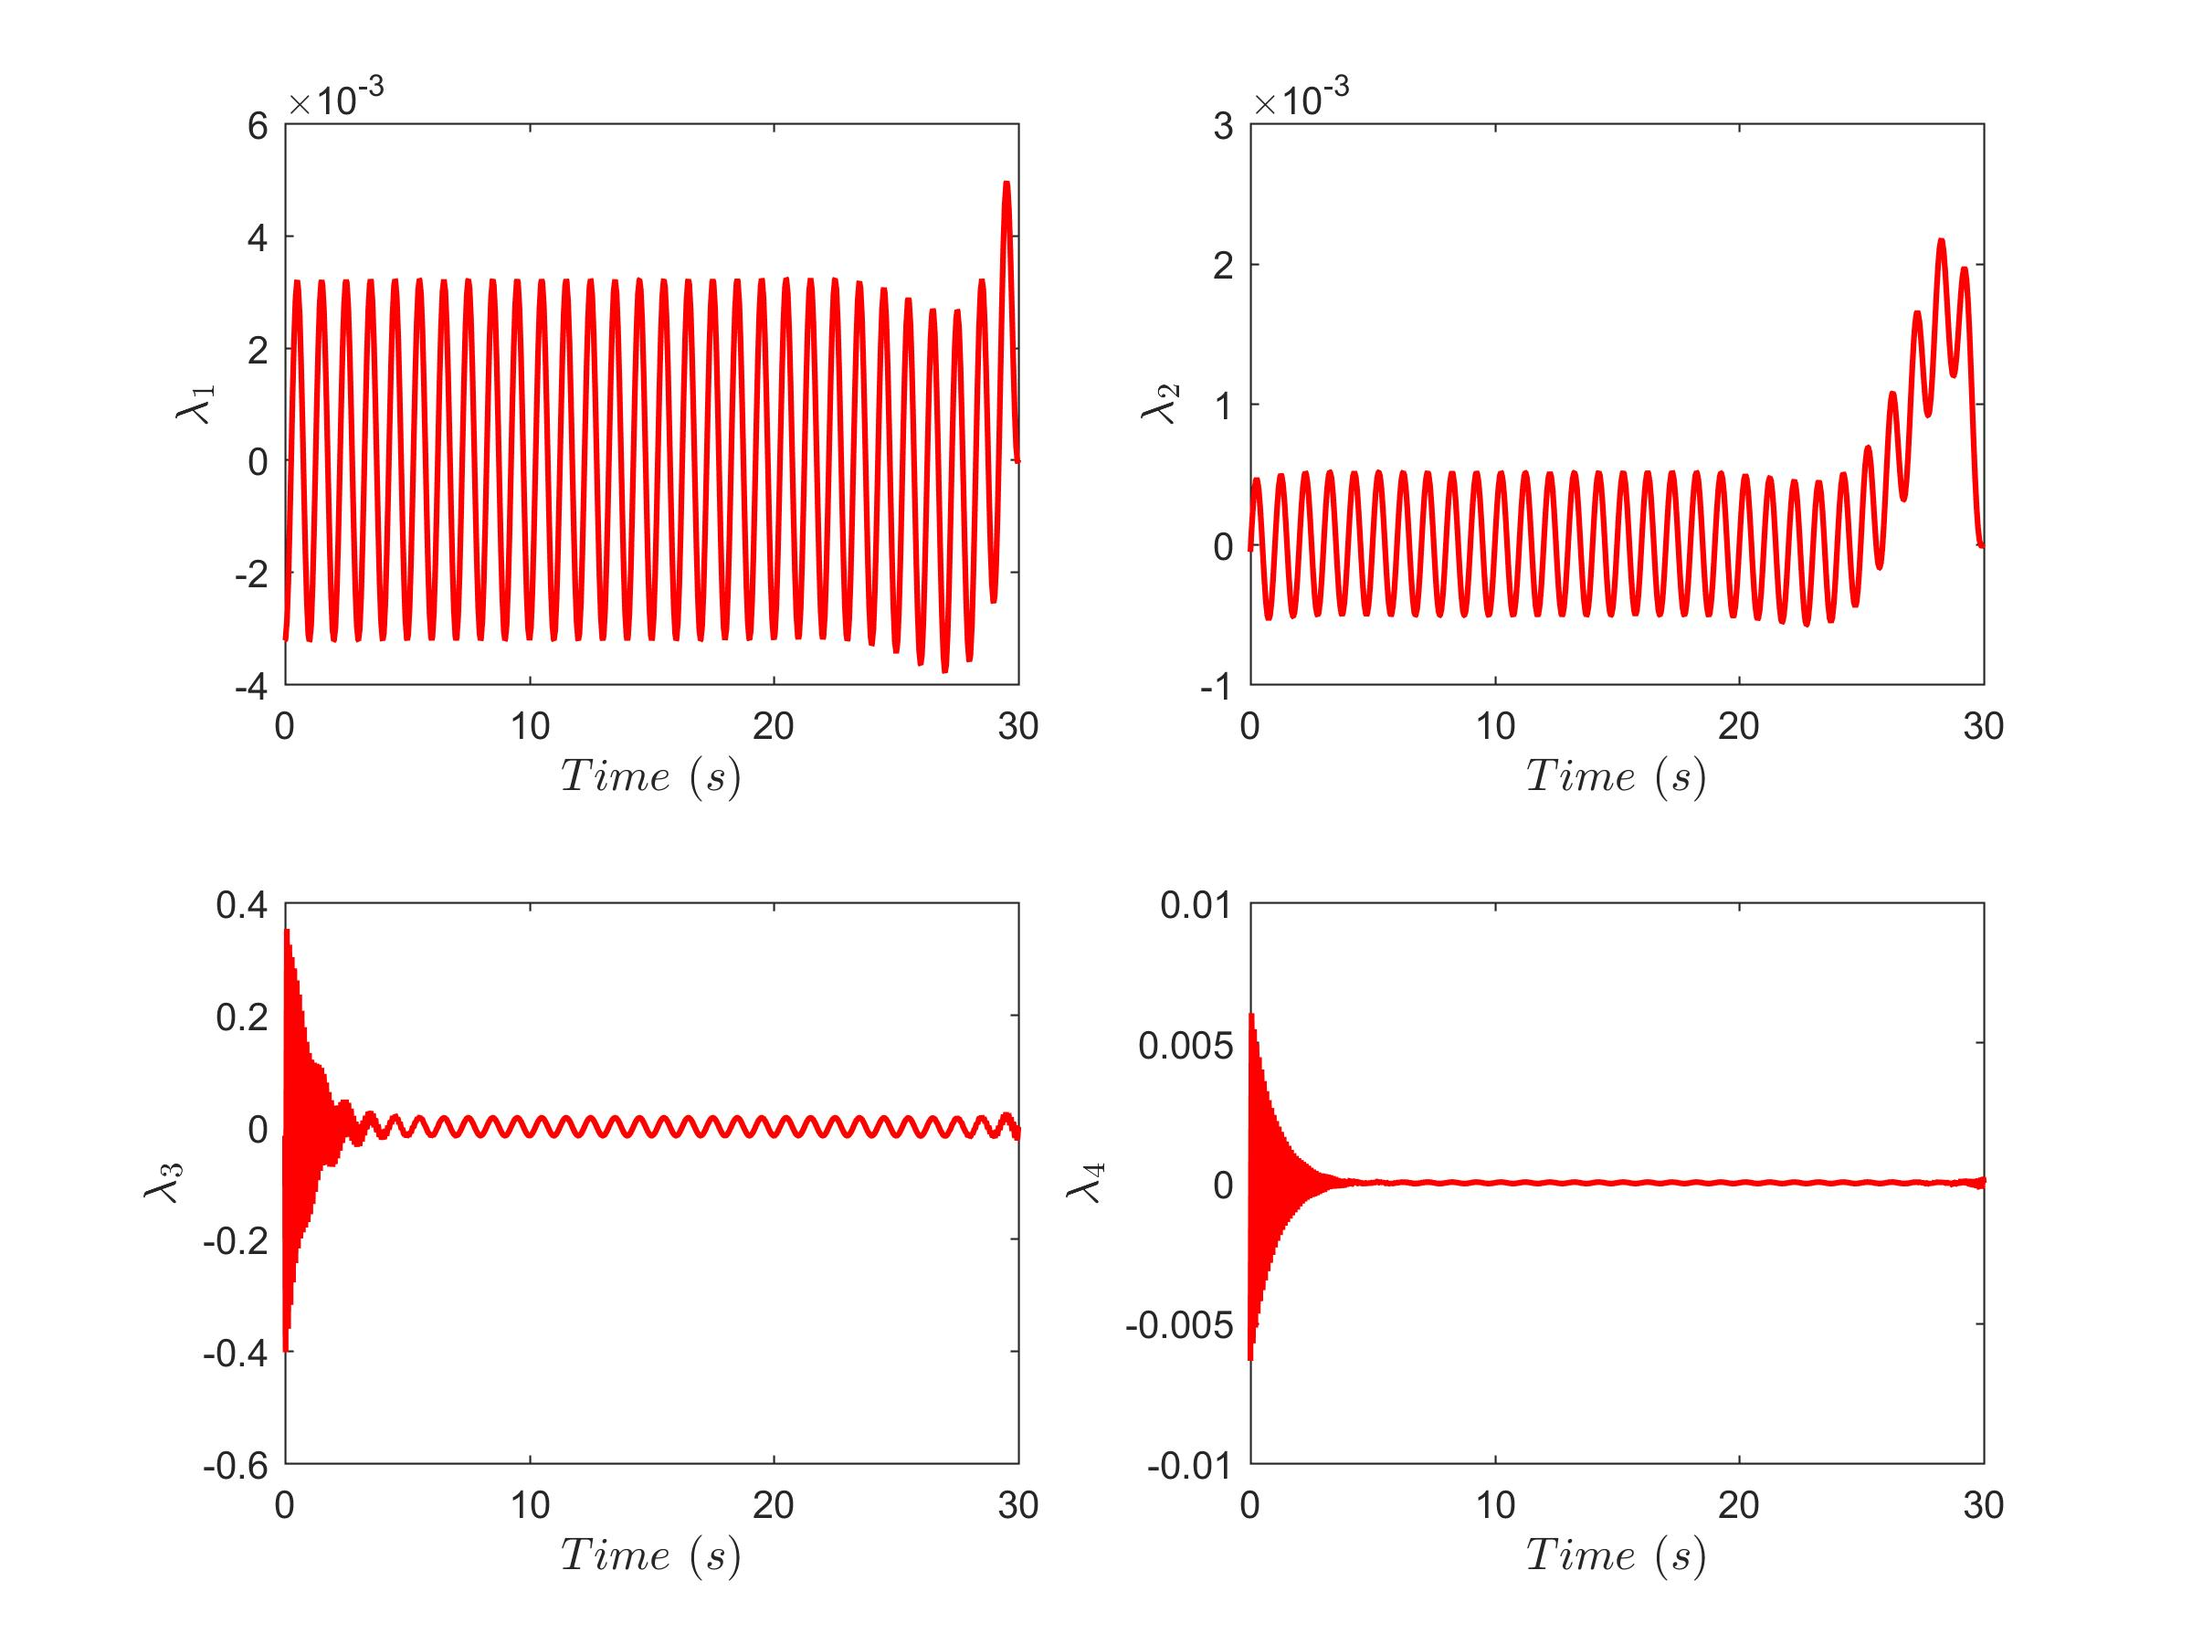
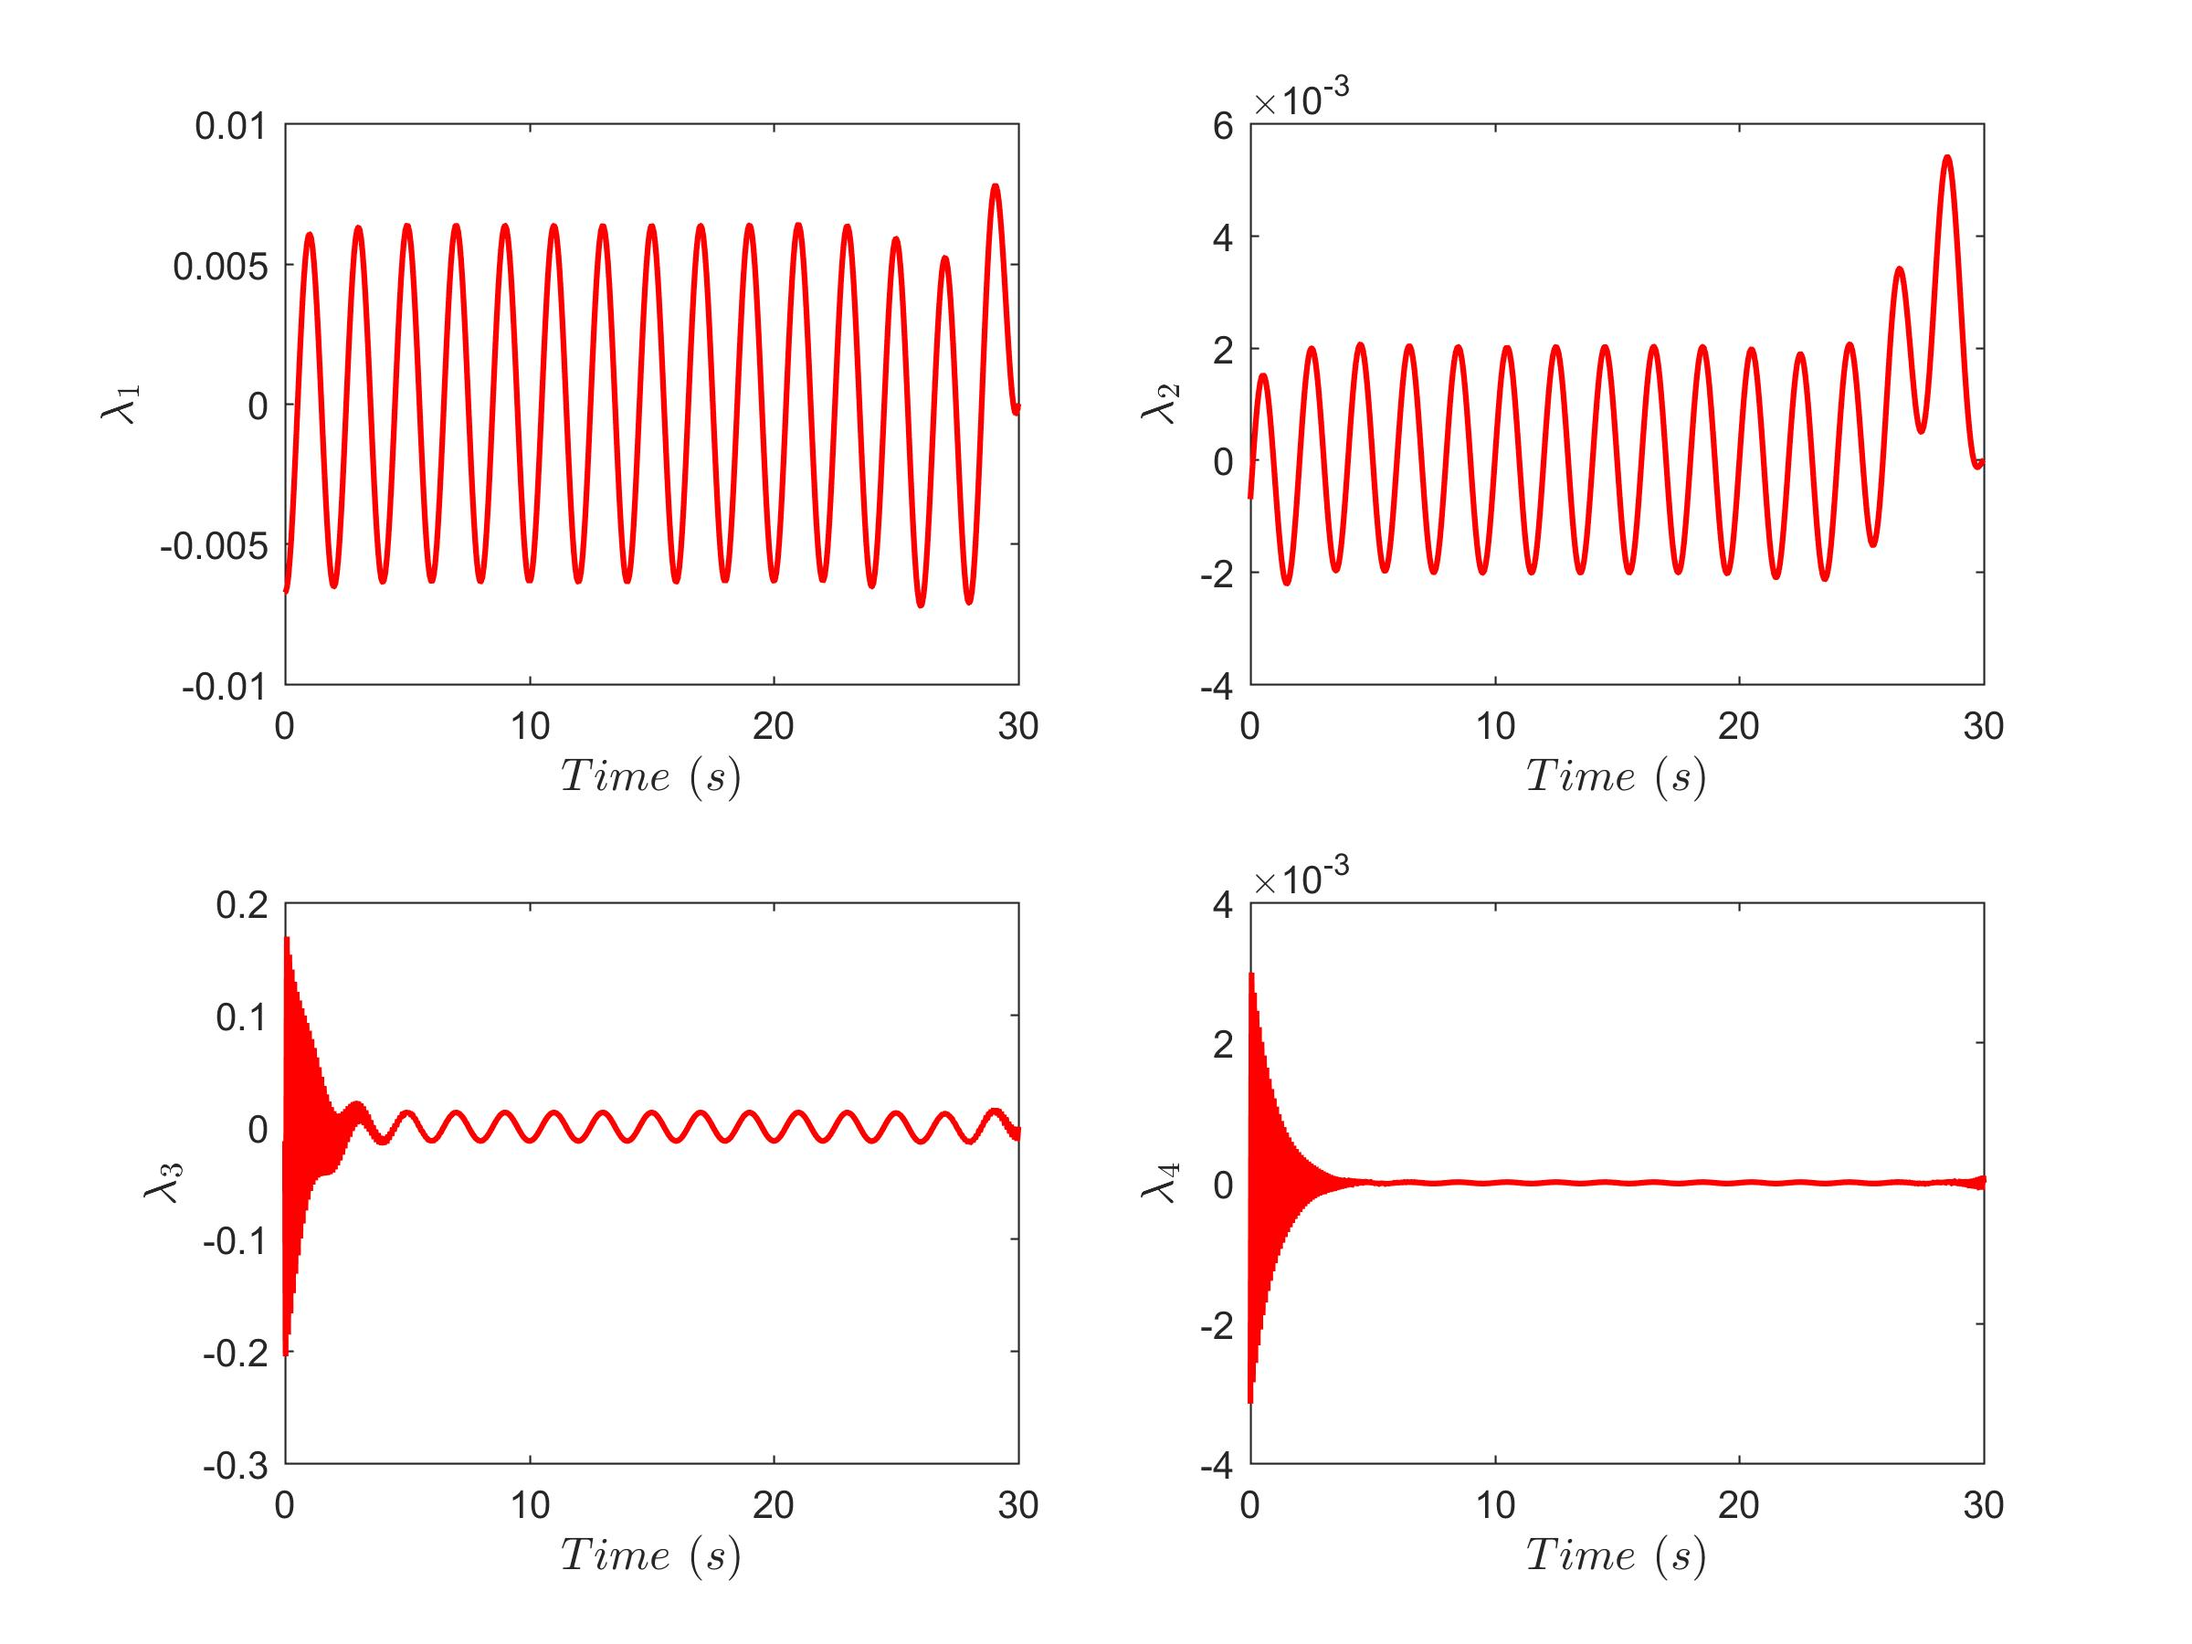
Minor Edits

diff --git a/main.m b/main.m
@@ -3,7 +3,7 @@ clc
 
 %% Parameters
 
-global ks kt ms mu bs bt w Amp A B C L rho1 rho2 rho3 rho4 R N Q Rinv x10 x20 x30 x40
+global ks kt ms mu bs bt w Amp A B C L rho1 rho2 rho3 rho4 R N Q Rinv x10 x20 x30 x40 tf
 
 kt = (704*10^3)/4; % N/m
 ks = 15*10^3; % N/m
@@ -16,7 +16,7 @@ rho2 = 0.040;
 rho3 = 0.400;
 rho4 = 0.040;
 Amp = 0.05;
-w = 1*2*pi;
+w = 0.5*2*pi;
 t0 = 0;
 tf = 30;
 steps = 30000;
@@ -163,6 +163,7 @@ for i = 1:length
     zaccl(1,i) = zsddot;
 end
 
+%%
 fig = figure(5);
 set(fig,'Position',[1800 -320 1200 1000])
 clear title

diff --git a/OLcontrolBC.m b/OLcontrolBC.m
@@ -1,5 +1,11 @@
 function residual = OLcontrolBC(ya,yb)
 
-global x10
+global x10 tf Amp w A L Q
 
-residual = [(ya(1) - x10); ya(2); ya(3); ya(4); yb(5); yb(6); yb(7); yb(8)];
+zr = Amp*sin(w*tf); 
+zrdot = Amp*w*cos(w*tf); 
+
+X = [-zr;0;0;zrdot];
+Lambda = -1/2*((A*X + L*zrdot)^-1)'*(X'*Q*X);
+
+residual = [(ya(1) - x10); ya(2); ya(3); ya(4); (yb(5) - Lambda(1)); (yb(6) - Lambda(2)); (yb(7) - Lambda(3)); (yb(8) - Lambda(4))];

diff --git a/OLoptimalControl.m b/OLoptimalControl.m
@@ -1,6 +1,6 @@
 function [xdot, F, zsddot]=OLoptimalControl(t,x) 
 
-global ks ms bs w Amp A B L N Q Rinv
+global ks ms bs w Amp A B L N Q Rinv tf
 
 x1 = x(1);
 x2 = x(2);
